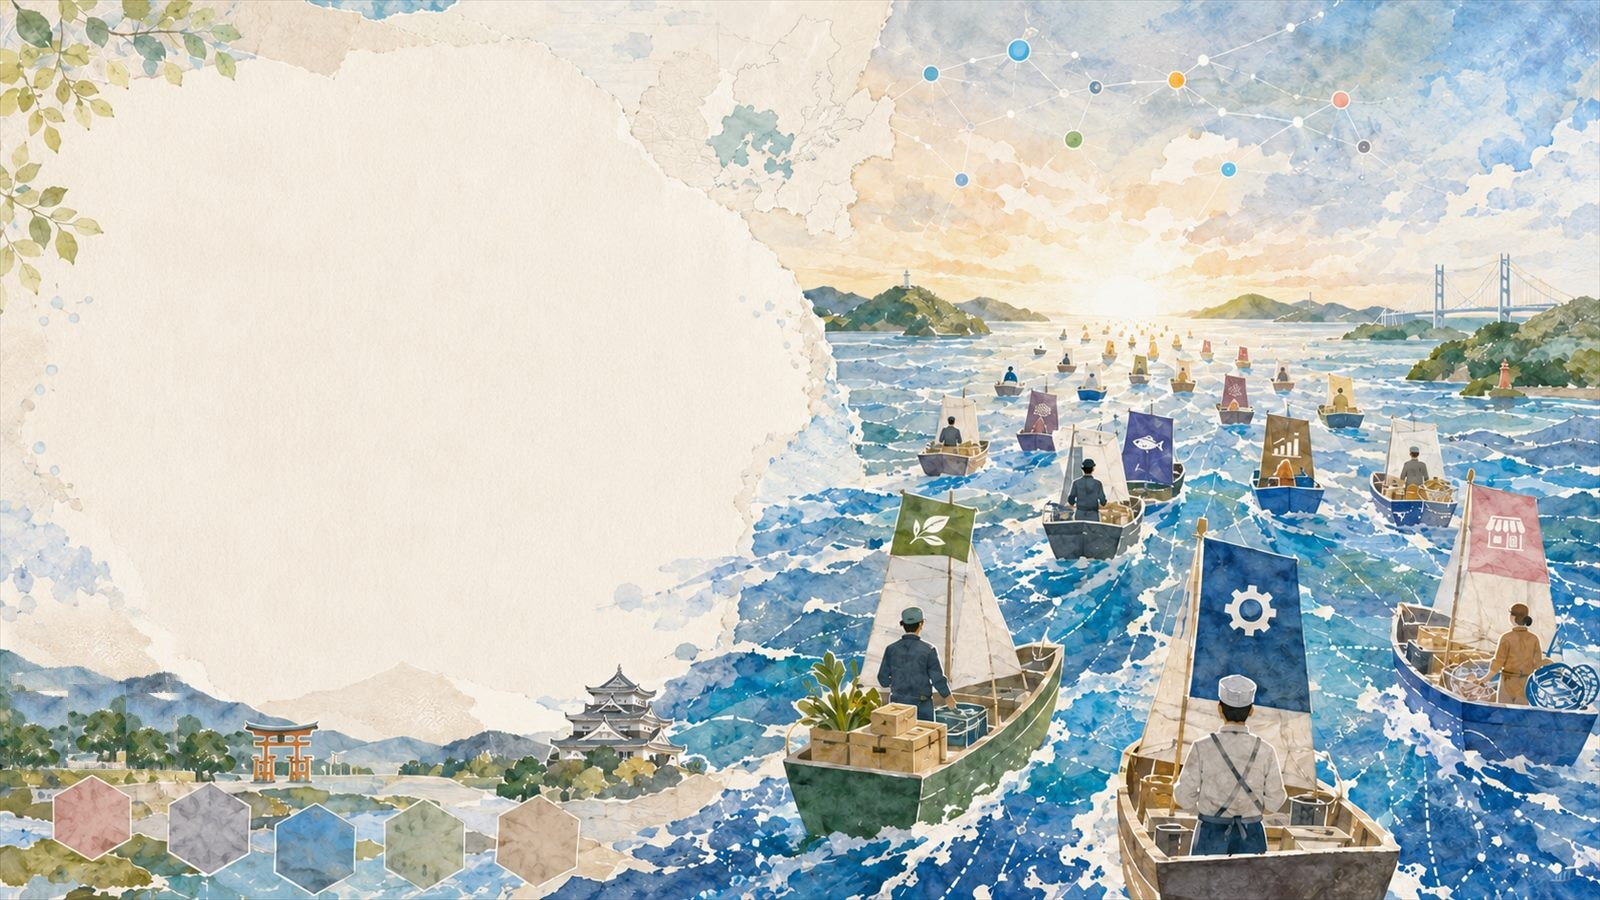
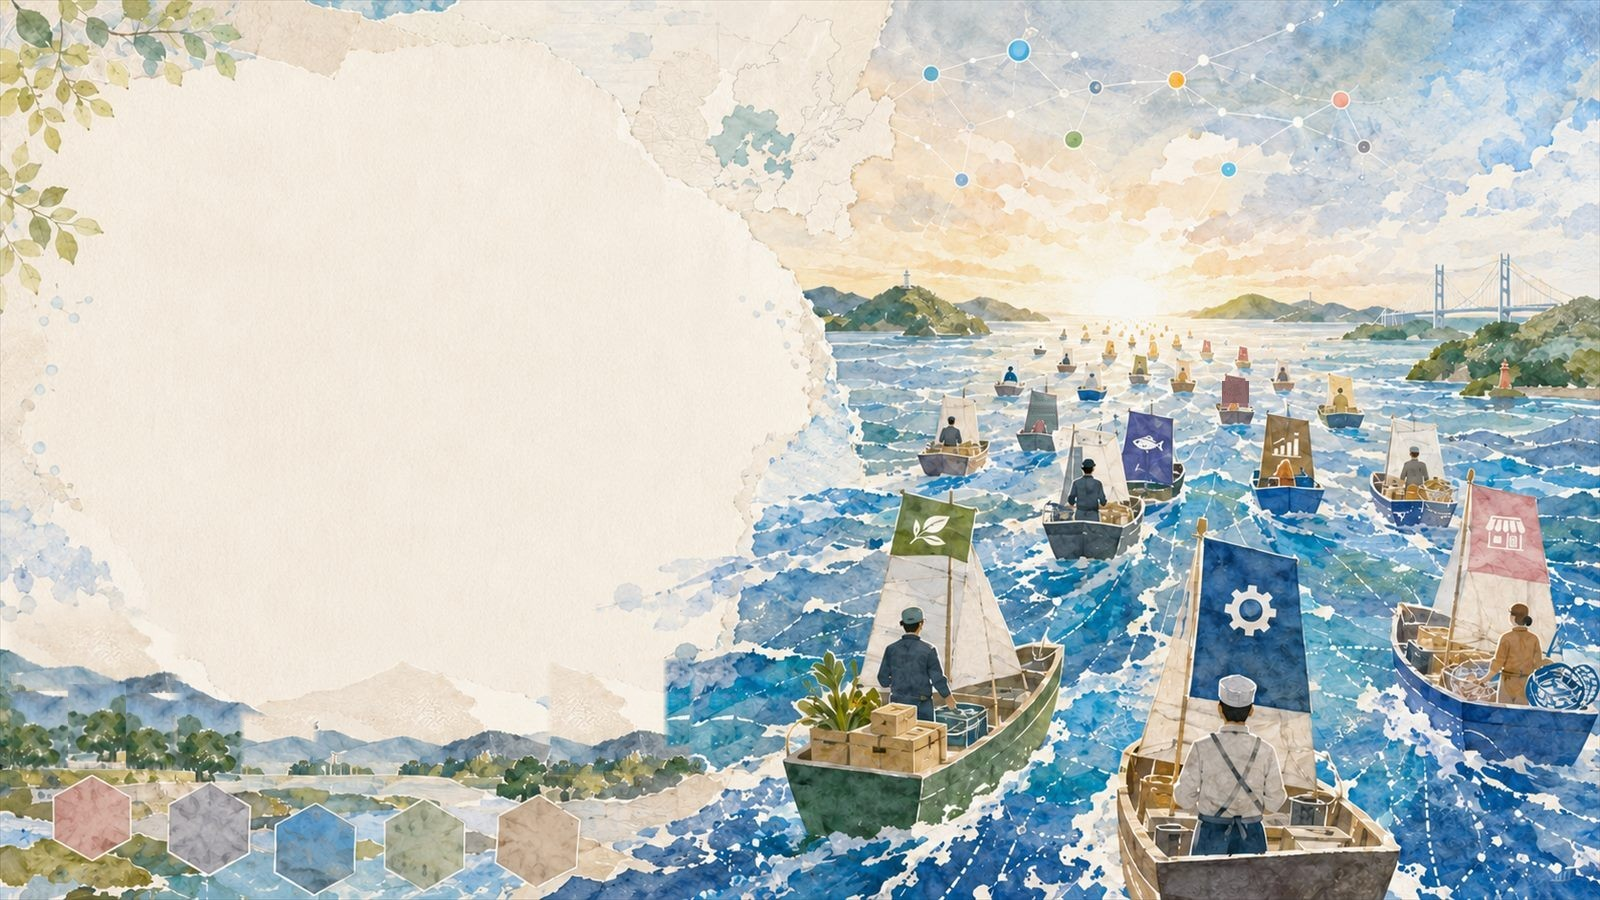
絵から菊花紋の帆・鳥居・広島城・エクセルの意匠を消す
- 船団の中に、紫の帆へ白い十六弁の菊を描いた船が1隻あった。菊花紋章は
  皇室の紋章で、県の事業のページに置く絵ではない。紋を消し、帆と船体を
  紫から海松色へ振り替えた（横長・縦長・夜の横長の3枚。夜の縦長には
  元から無い）。同じ理由で、別の1隻にあった判別のつかない花の意匠も
  消してある。
- 鳥居と広島城を4枚すべてから消した（依頼主 2026-09-14）。山・汀線・
  木立の帯を横から持ってきて埋めている。
- icons/pain/icon-2.webp のエクセルの意匠（白いXと表のマス目）を消し、
  無地の緑の帳簿＋白い紙束にした。緑の札そのものは残している ――
  消すと後ろの本の右端が欠けるが、そこは元から描かれていない。

1280 / 1440 / 834 / 390 の昼夜すべて合格。書き出しは JPEG 0.90 で
元とほぼ同じ大きさ。

diff --git a/README_画像について.md b/README_画像について.md
@@ -73,10 +73,11 @@
 このためです。絵を差し替えたら、この2つの値も測り直してください。
 
 **ヒーローの高さは画面ではなく絵で決めています**（`min-height:clamp(940px,
-74vw, 1060px)`）。絵の下の帯には原爆ドーム・鳥居・広島城が並んでいて、
-ヒーローが低いと cover が絵を縮めて建物が上がってきて、リード文の下に
-食い込みます（1280px で 1.52:1 まで落ちました）。高さを確保すると絵が
-拡大され、建物は本文より下へ逃げます。
+74vw, 1060px)`）。かつて絵の下の帯には原爆ドーム・鳥居・広島城が並んで
+いて（いまはどれも消してあります）、ヒーローが低いと cover が絵を縮めて
+建物が上がってきて、リード文の下に食い込みました（1280px で 1.52:1 まで
+落ちました）。建物は消えましたが、汀線と木立はそのまま同じ帯にあるので、
+この高さの指定は残してあります。
 
 ### 絵に焼き込んだ船団
 
@@ -126,7 +127,8 @@ powershell -File tools/build-hero-mobile.ps1 -Map
 帆が遠くの島に重なるのは許しています。手前の船として自然に見えるためです。
 判定しているのは船底だけです。
 
-紙は下へいくほど狭まり、左下には原爆ドームが入ります。狭い画面では
+紙は下へいくほど狭まり、左下には汀線と木立が入ります（かつてはここに
+原爆ドームがありました）。狭い画面では
 リード文がそこへ届いてしまうので、768〜1279px では余白と字を詰めて
 あります。`tools/onpaper.js` が、文字の下が本当に紙かどうかを
 背景画像から実測して判定します。
@@ -317,11 +319,57 @@ HTMLに1行足し、CSSに位置を1行足してください。
   `assets/img/icons/flow/hub-*.webp` を `<picture>` の `<img>` 側で使う。
 - 変換はブラウザのエンコーダ（品質0.92）＋ `tools/webp-bridge.js`。
 
-## 原爆ドームを消した（2026-09-10）
+## 絵から消したもの
 
-利用権利が得られなかったため、**ページのどの絵にも原爆ドームは写っていない**
-（依頼主 2026-09-10）。差し替え・作り直しのときは必ず確認すること。
-鳥居と広島城はそのまま使ってよい。
+**差し替え・作り直しのときは、下の4つが写っていないことを必ず確認すること。**
+
+| 消したもの | いつ | 理由 |
+|---|---|---|
+| 原爆ドーム | 2026-09-10 | 利用権利が得られなかった |
+| 鳥居 | 2026-09-14 | 依頼主の指示 |
+| 広島城 | 2026-09-14 | 依頼主の指示 |
+| 菊花紋の帆の船 | 2026-09-14 | 皇室の紋章。県の事業のページに置く絵ではない |
+| エクセルの意匠 | 2026-09-14 | 依頼主の指示 |
+
+### 菊花紋の帆（2026-09-14）
+
+船団の中に、紫の帆へ白い十六弁の菊を描いた船が1隻あった。紋を消し、
+帆と船体を紫から海松色（色相172）へ振り替えてある。
+
+| ファイル | 元の位置 |
+|---|---|
+| backgrounds/hero-mobile.jpg | 帆 x 745〜812, y 1192〜1288（紋は x 763〜795, y 1222〜1256） |
+| backgrounds/hero-scene-wide.jpg | 船 x 1013〜1060, y 386〜455 |
+| backgrounds/hero-night-wide.jpg | 船 x 1028〜1060, y 394〜440 |
+
+hero-night-mobile には無い（紫の帆は葉と魚の意匠で、菊ではない）。
+あわせて hero-scene-wide の別の1隻（x 1222〜1248, y 381〜402）にあった
+薄い花の意匠も消してある。小さくて菊かどうか判別できないが、判別
+できないものを県のページに残す理由がない。無地の帆は船団に何隻もある
+ので、消しても浮かない。
+
+### 鳥居と広島城（2026-09-14）
+
+4枚すべてから消し、山・汀線・木立の帯を横から持ってきて埋めてある。
+
+| ファイル | 鳥居 | 広島城 |
+|---|---|---|
+| hero-scene-wide.jpg | x 243〜315, y 718〜785 | x 548〜690, y 664〜770 |
+| hero-night-wide.jpg | x 240〜315, y 718〜780 | x 565〜680, y 655〜770 |
+| hero-mobile.jpg | x 236〜296, y 1195〜1252 | x 320〜410, y 1200〜1268 |
+| hero-night-mobile.jpg | x 231〜299, y 1193〜1250 | x 310〜418, y 1187〜1278 |
+
+### エクセルの意匠（2026-09-14）
+
+`icons/pain/icon-2.webp`。緑の札の白い X（x 214〜276, y 198〜284）と、
+右の表のマス目（x 303〜356, y 183〜309）を消して、無地の緑の帳簿＋
+白い紙束にした。**札そのものは残してある** ―― 消すと後ろの本の右端が
+欠けるが、そこは元から描かれていないので、作り直しようがない
+（試して失敗した記録は CLAUDE.md にある）。
+
+### 原爆ドーム（2026-09-10）
+
+利用権利が得られなかったため。
 
 消したのは次の6枚。周囲の地形（山・木立・海）で塗りつぶしてある。
 
